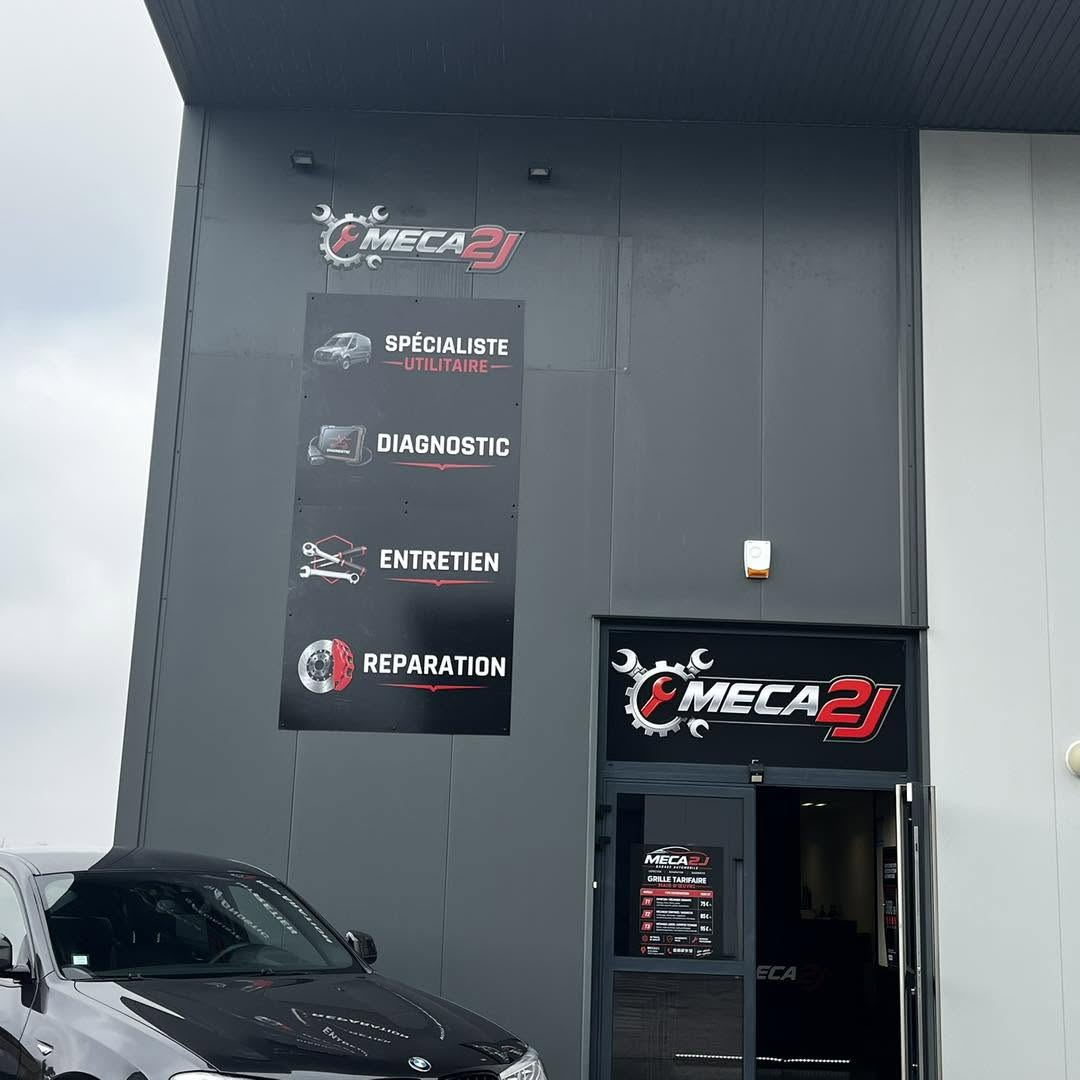
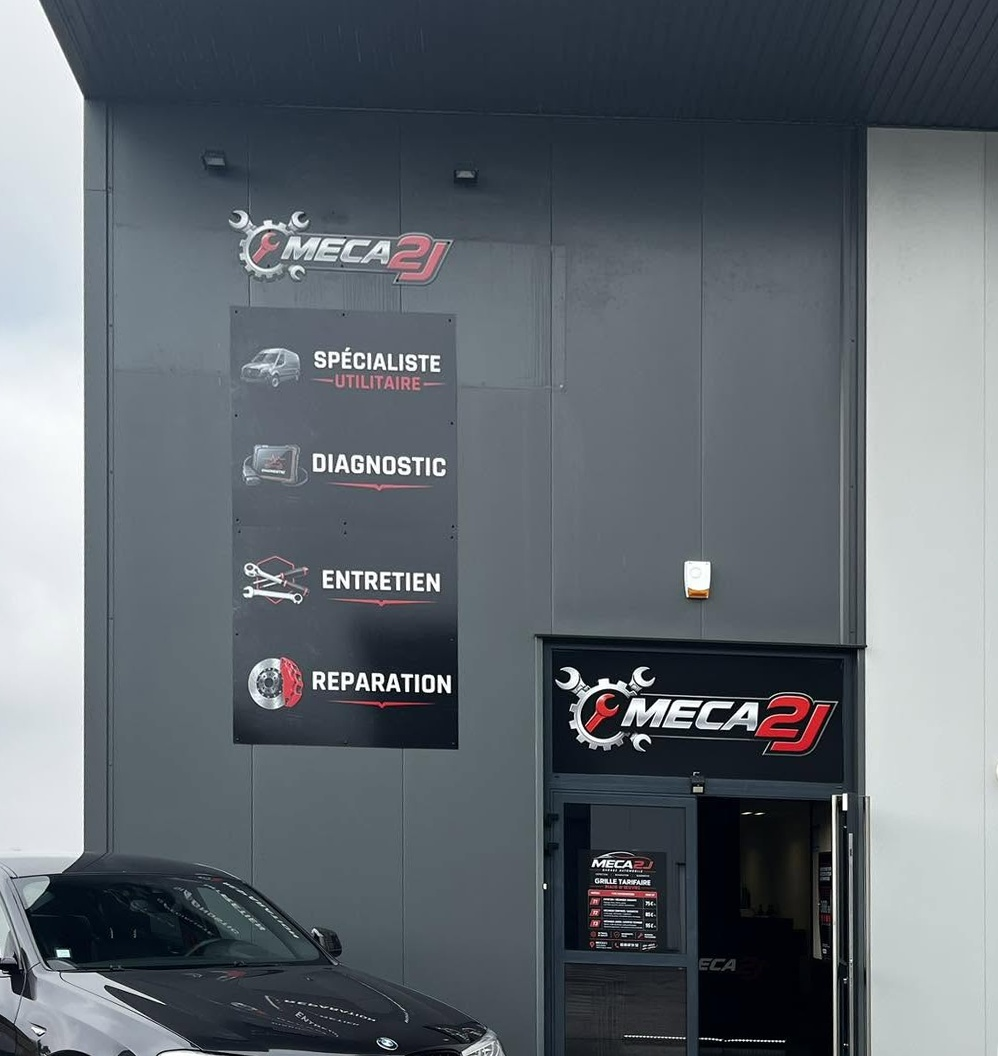
Nouvelle photo de la façade, mieux cadrée

diff --git a/index.html b/index.html
@@ -195,7 +195,7 @@
         <p class="eyebrow">Infos pratiques</p>
         <h2>Venez nous voir ou appelez-nous</h2>
         <div class="contact-grid">
-        <img class="contact-grid__photo" src="assets/facade.jpg" alt="Façade du garage MECA2J : spécialiste utilitaire, diagnostic, entretien, réparation" loading="lazy">
+        <img class="contact-grid__photo" src="assets/facade.jpg?v=2" alt="Façade du garage MECA2J : spécialiste utilitaire, diagnostic, entretien, réparation" loading="lazy">
         <div class="infos">
           <div class="info">
             <h3>Adresse</h3>
